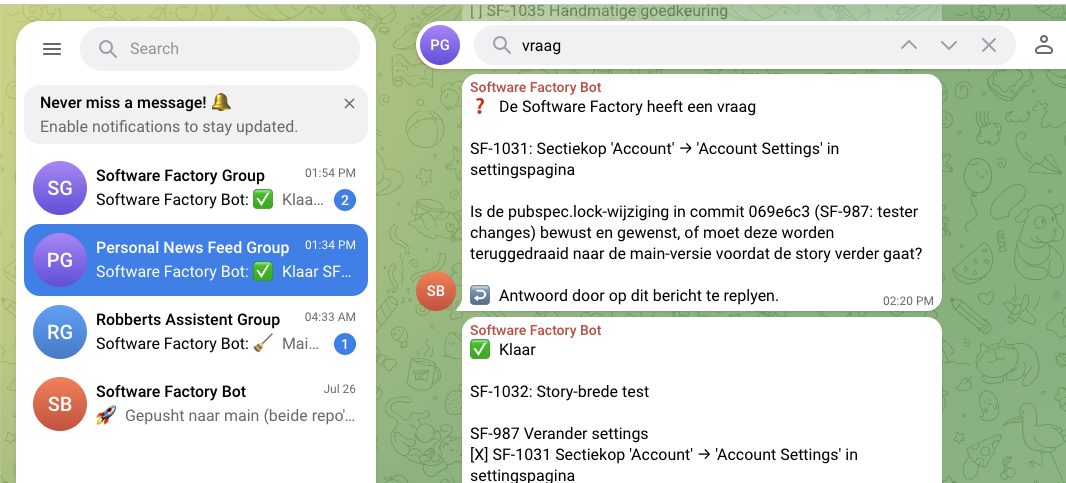
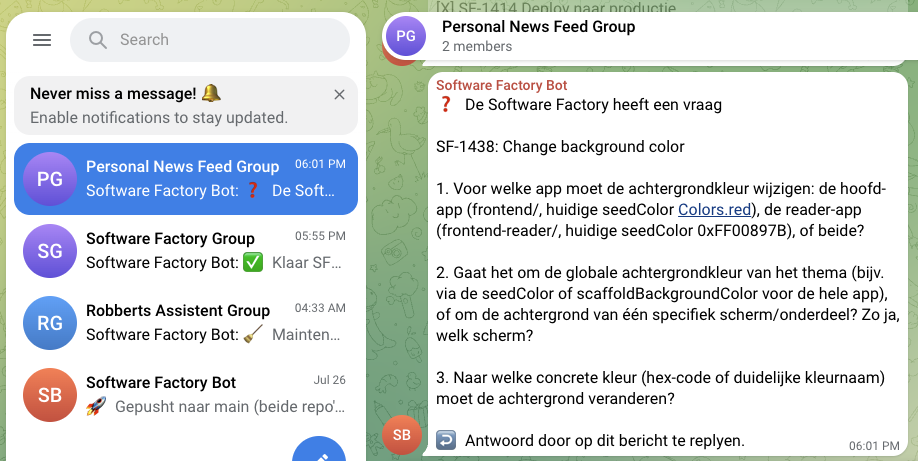
docs(readme): handmatige stories tonen, cijfers eruit, Telegram eigen sectie
Drie dingen:

1. "By the numbers" en "Is it any good?" verwijderd. De cijfertabel was binnen een
   week verouderd; het aantal merges stond ook in de intro en is daar vervangen
   door een tijdloze formulering.

2. "What it looks like" suggereerde dat alle stories uit audits komen. Nu twee
   reeksen: werk dat je zelf vraagt (nieuwe story -> opgepakt -> de refiner stelt
   zijn vraag met antwoordveld) en werk dat de factory zelf vindt (audits ->
   rapport -> merged). Story SF-1438 loopt door de eerste reeks heen, dus de
   screenshots hangen zichtbaar samen.

3. Telegram heeft een eigen sectie gekregen i.p.v. één losse screenshot in de
   story-reeks: het is een tweerichtingskanaal, niet alleen meldingen. De vraag
   staat er nu in; voortgangsmeldingen en zelf iets vragen aan de assistent
   staan als placeholder klaar.

Van de nieuwe Telegram-opname is opnieuw de bovenste 88px weggesneden
(bookmarkbalk + chat-ID in de URL); de repo is publiek.

diff --git a/README.md b/README.md
@@ -9,8 +9,7 @@ is not a chatbot you copy-paste code out of: it is a factory floor. Work arrives
 through a chain of specialised agents, and comes out the other end as a merged pull request on a
 running system. A human stays in charge — but only where a human adds something.
 
-It has been running since 23 May 2026 and has, at the time of writing, merged **141 stories** into
-real, live applications.
+It has been running since May 2026 and merges its work straight into real, live applications.
 
 ---
 
@@ -68,30 +67,66 @@ command list.
 
 ## What it looks like
 
-**Work the factory finished by itself.** Every one of these started as a nightly audit finding,
-became a story, and was built, reviewed, tested and merged without anyone writing the code.
+Work reaches the factory in two ways: you ask for it, or the factory finds it.
 
-![The Stories screen, showing merged stories that the factory proposed and built itself](docs/images/dashboard-stories.png)
+### Work you ask for
 
-**An audit run in progress.** The factory shows what is working right now and for how long.
+You type what you want. It can be as rough as this — a title, one sentence, which project it
+belongs to. "Direct starten" means it gets picked up immediately.
 
-![The Agents screen with an auditor agent running](docs/images/dashboard-agents.png)
+![The New story dialog: title, description, project, AI supplier and a few switches](docs/images/story-new.png)
 
-**The night shift.** Each project has its own set of audits — ADR compliance, consistency,
-documentation, integration test coverage, code quality, security. Whichever ran longest ago goes
-next, so they all come round in turn. The story link is what that audit filed.
+It appears in the list and starts moving on its own. SF-1438 is already being refined.
+
+![The Stories screen with the new story in the refining phase](docs/images/story-refining.png)
+
+And then it asks — because "change the background color" isn't buildable yet. Which app? The whole
+theme, or one screen? Which green exactly? These are the questions a good developer would have
+asked you. Type the answer, the story continues, and if your answer raises a new question it asks
+that one too.
+
+![The story in the dashboard, phase refined-with-questions, with the refiner's question and an answer box](docs/images/story-question.png)
+
+### Work the factory finds itself
+
+Each project has its own set of audits — ADR compliance, consistency, documentation, integration
+test coverage, code quality, security. Whichever ran longest ago goes next, so they all come round
+in turn. The story link is what that audit filed.
 
 ![The Audits screen: audit types per project, each with its last run and the story it filed](docs/images/dashboard-audits.png)
 
-**What an audit produces.** A score with a one-line justification, then a readable report: what was
-examined, what was found, and what it proposes to do about it.
+An audit produces a score with a one-line justification, then a readable report: what was examined,
+what was found, and what it proposes to do about it.
 
 ![An audit report: score, justification and the full report underneath](docs/images/audit-report.png)
 
-**It asks rather than guesses.** An agent that hits an ambiguity stops and asks — here in Telegram,
-where answering is a matter of replying to the message.
+Those proposals become ordinary stories and go through the same pipeline. These were all built,
+reviewed, tested and merged without anyone writing the code.
 
-![An agent asking a question in Telegram](docs/images/telegram-question.png)
+![The Stories screen, showing merged stories that the factory proposed and built itself](docs/images/dashboard-stories.png)
+
+### What's running right now
+
+Either way, the Agents screen shows what is working at this moment and for how long.
+
+![The Agents screen with an auditor agent running](docs/images/dashboard-agents.png)
+
+### The factory in your pocket
+
+You do not have to sit at the dashboard. The whole factory is reachable over Telegram, and it is a
+two-way channel rather than a notification feed.
+
+**It asks you things.** The same questions that appear in the dashboard also land in Telegram, and
+replying to the message is a valid answer — so a story never stalls just because you are away from
+your desk.
+
+![The refiner asking questions about a story in Telegram](docs/images/telegram-question.png)
+
+<!-- SCREENSHOT: docs/images/telegram-progress.png — a progress/"klaar" notification thread, showing
+     what the factory reports back while it works. See docs/images/README.md. -->
+
+<!-- SCREENSHOT: docs/images/telegram-ask.png — asking the assistant a question about the code or a
+     story and getting a real answer back, to show it is a conversation and not a command list. -->
 
 ---
 
@@ -129,36 +164,6 @@ that, after the run, once the evidence checks out.
 
 The full phase model behind this (`Story Phase` and `Subtask Phase`, with every state and
 transition) is documented in [docs/technical/overview.md](docs/technical/overview.md).
-
----
-
-## By the numbers
-
-Measured on the live instance, 28 July 2026 — roughly two months after the first agent run:
-
-| | |
-|---|---|
-| Stories created | 182 |
-| Subtasks executed | 885 |
-| Agent runs | 1,474 |
-| Stories merged | 141 |
-| Automatic deploys | 96 |
-| Agent runtime | ~55 hours |
-| Agent roles | 8 (refiner, planner, developer, reviewer, tester, summarizer, documenter, auditor) |
-
----
-
-## Is it any good?
-
-Honest answer: it depends on the work. The factory is strong at well-bounded changes — a bug with
-a clear reproduction, a refactor with a clear target, documentation drift, a small feature on an
-existing pattern. That is exactly the kind of work the nightly audits generate, which is why the
-loop feeds itself.
-
-It is weaker at open-ended design work, and it costs real money in AI tokens. It also needs the
-guardrails it has: the factory re-runs the full test suite itself after every developer and tester
-run, because an agent claiming "all tests pass" is not evidence. A red test suite sends the story
-straight back to development, with no exception for "pre-existing" failures.
 
 ---
 

diff --git a/docs/images/README.md b/docs/images/README.md
@@ -1,8 +1,15 @@
 # Images for the README
 
-All five screenshots are in place. If you replace one, or add a new slot, keep the empty slot as a
-`<!-- SCREENSHOT: ... -->` comment in the README rather than a real image tag until the PNG exists:
-a missing file renders as a broken image on a public repository.
+The README uses these as sequences rather than a gallery: **work you ask for**
+(`story-new` → `story-refining` → `story-question`), **work the factory finds itself**
+(`dashboard-audits` → `audit-report` → `dashboard-stories`), then `dashboard-agents`, then the
+Telegram section. Replacing one means keeping its sequence readable — the captions refer to what is
+actually visible in the shot, for instance story SF-1438 running through the first three.
+
+Empty slots stay a `<!-- SCREENSHOT: ... -->` comment in the README rather than a real image tag
+until the PNG exists: a missing file renders as a broken image on a public repository.
+
+Currently missing: **`telegram-progress.png`** and **`telegram-ask.png`**.
 
 Two things to check before adding one, because this repository is public: crop away the browser
 chrome (the URL bar and your bookmarks bar give away more than you think — the Telegram shot
@@ -11,13 +18,18 @@ needed exactly that), and read the visible text for anything private.
 Take them at a browser width of roughly 1000-1200px so the content fills the frame; the dashboard
 keeps its content in a narrow left column, so crop away the empty space on the right.
 
-| File | What it should show | Markdown to use |
+| File | Sequence | What it should show |
 |---|---|---|
-| `dashboard-stories.png` | Stories screen, filter **Klaar** enabled, showing merged `[Audit]` stories with their `merged`/`done` badges. This is the money shot: it proves the loop closes. | `![The Stories screen: work the factory finished and merged itself](docs/images/dashboard-stories.png)` |
-| `dashboard-audits.png` | Audits screen with both projects visible, each audit type with its last run time and the story it produced. | `![The Audits screen: a nightly audit per topic, each with the story it filed](docs/images/dashboard-audits.png)` |
-| `dashboard-agents.png` | Agents screen while an agent run is actually in progress, so the live runtime is visible. Best taken while a story is running. | `![The Agents screen: what is running right now](docs/images/dashboard-agents.png)` |
-| `telegram-question.png` | A Telegram thread where an agent asks a question and gets answered. Check for anything private before adding it — this repository is public. | `![An agent asking a question in Telegram](docs/images/telegram-question.png)` |
-| `audit-report.png` | An audit report opened from the Audits screen: the score with its one-line justification at the top, then the rendered markdown report below. Shows what an audit actually produces, rather than just that it ran. | `![What an audit produces: a scored, readable report](docs/images/audit-report.png)` |
+| `story-new.png` | you ask, 1/3 | The "Nieuwe story" dialog, filled in with a deliberately vague request. The point is how little you have to type. |
+| `story-refining.png` | you ask, 2/3 | The Stories screen with that same story at the top, phase `refining` — it started on its own. |
+| `story-question.png` | you ask, 3/3 | That same story at `refined-with-questions`: the refiner's question with the answer box under it. The answer box is the point — it shows the loop is closed, not just that a question exists. |
+| `dashboard-audits.png` | it finds, 1/3 | Audits screen, audit types per project with their last run time and the story they filed. |
+| `audit-report.png` | it finds, 2/3 | An audit report opened from that screen: score plus one-line justification at the top, rendered markdown below. Shows what an audit produces, not just that it ran. |
+| `dashboard-stories.png` | it finds, 3/3 | Stories screen, filter **Klaar** enabled, showing merged `[Audit]` stories. This is the money shot: it proves the loop closes. |
+| `dashboard-agents.png` | closing | Agents screen while a run is actually in progress, so the live runtime is visible. |
+| `telegram-question.png` | telegram, 1/3 | Telegram, with an agent asking about a story. Crop off the browser chrome and check the visible text: this repository is public. |
+| `telegram-progress.png` | telegram, 2/3 | A thread of what the factory reports back while it works — progress and "klaar"-style messages. Shows you are kept informed without asking. |
+| `telegram-ask.png` | telegram, 3/3 | You asking the assistant something about the code or a story, and getting a real answer. Shows it is a conversation, not a fixed command list. |
 
 Note: the dashboard UI is in Dutch while the README is in English. That is deliberate — the app is
 Dutch, the README is the public-facing story and stays English. So don't "fix" the screenshots by
